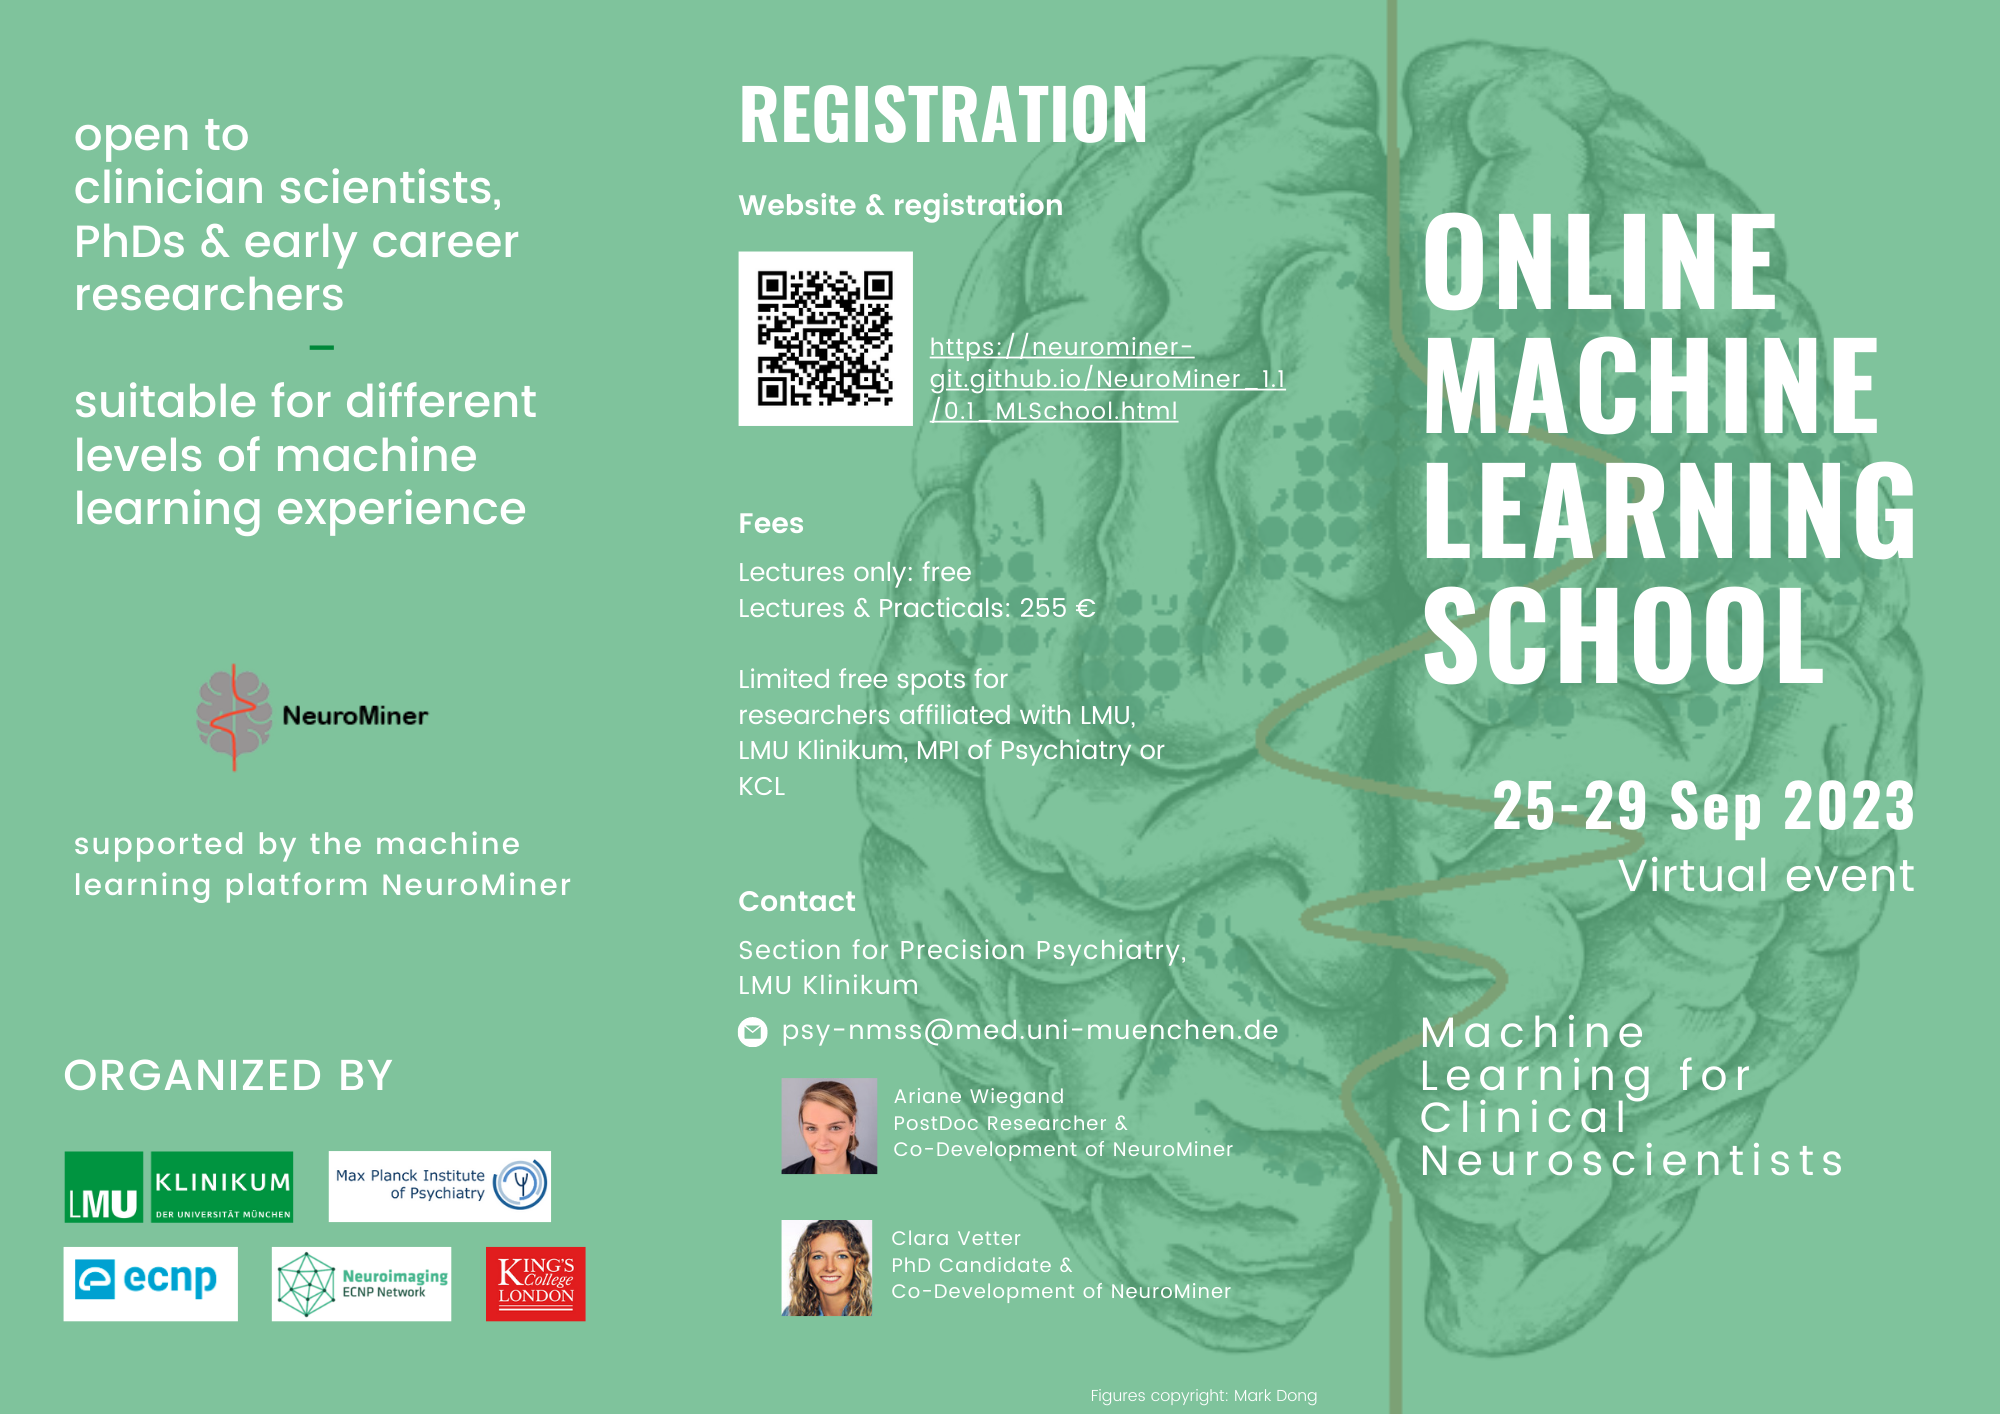
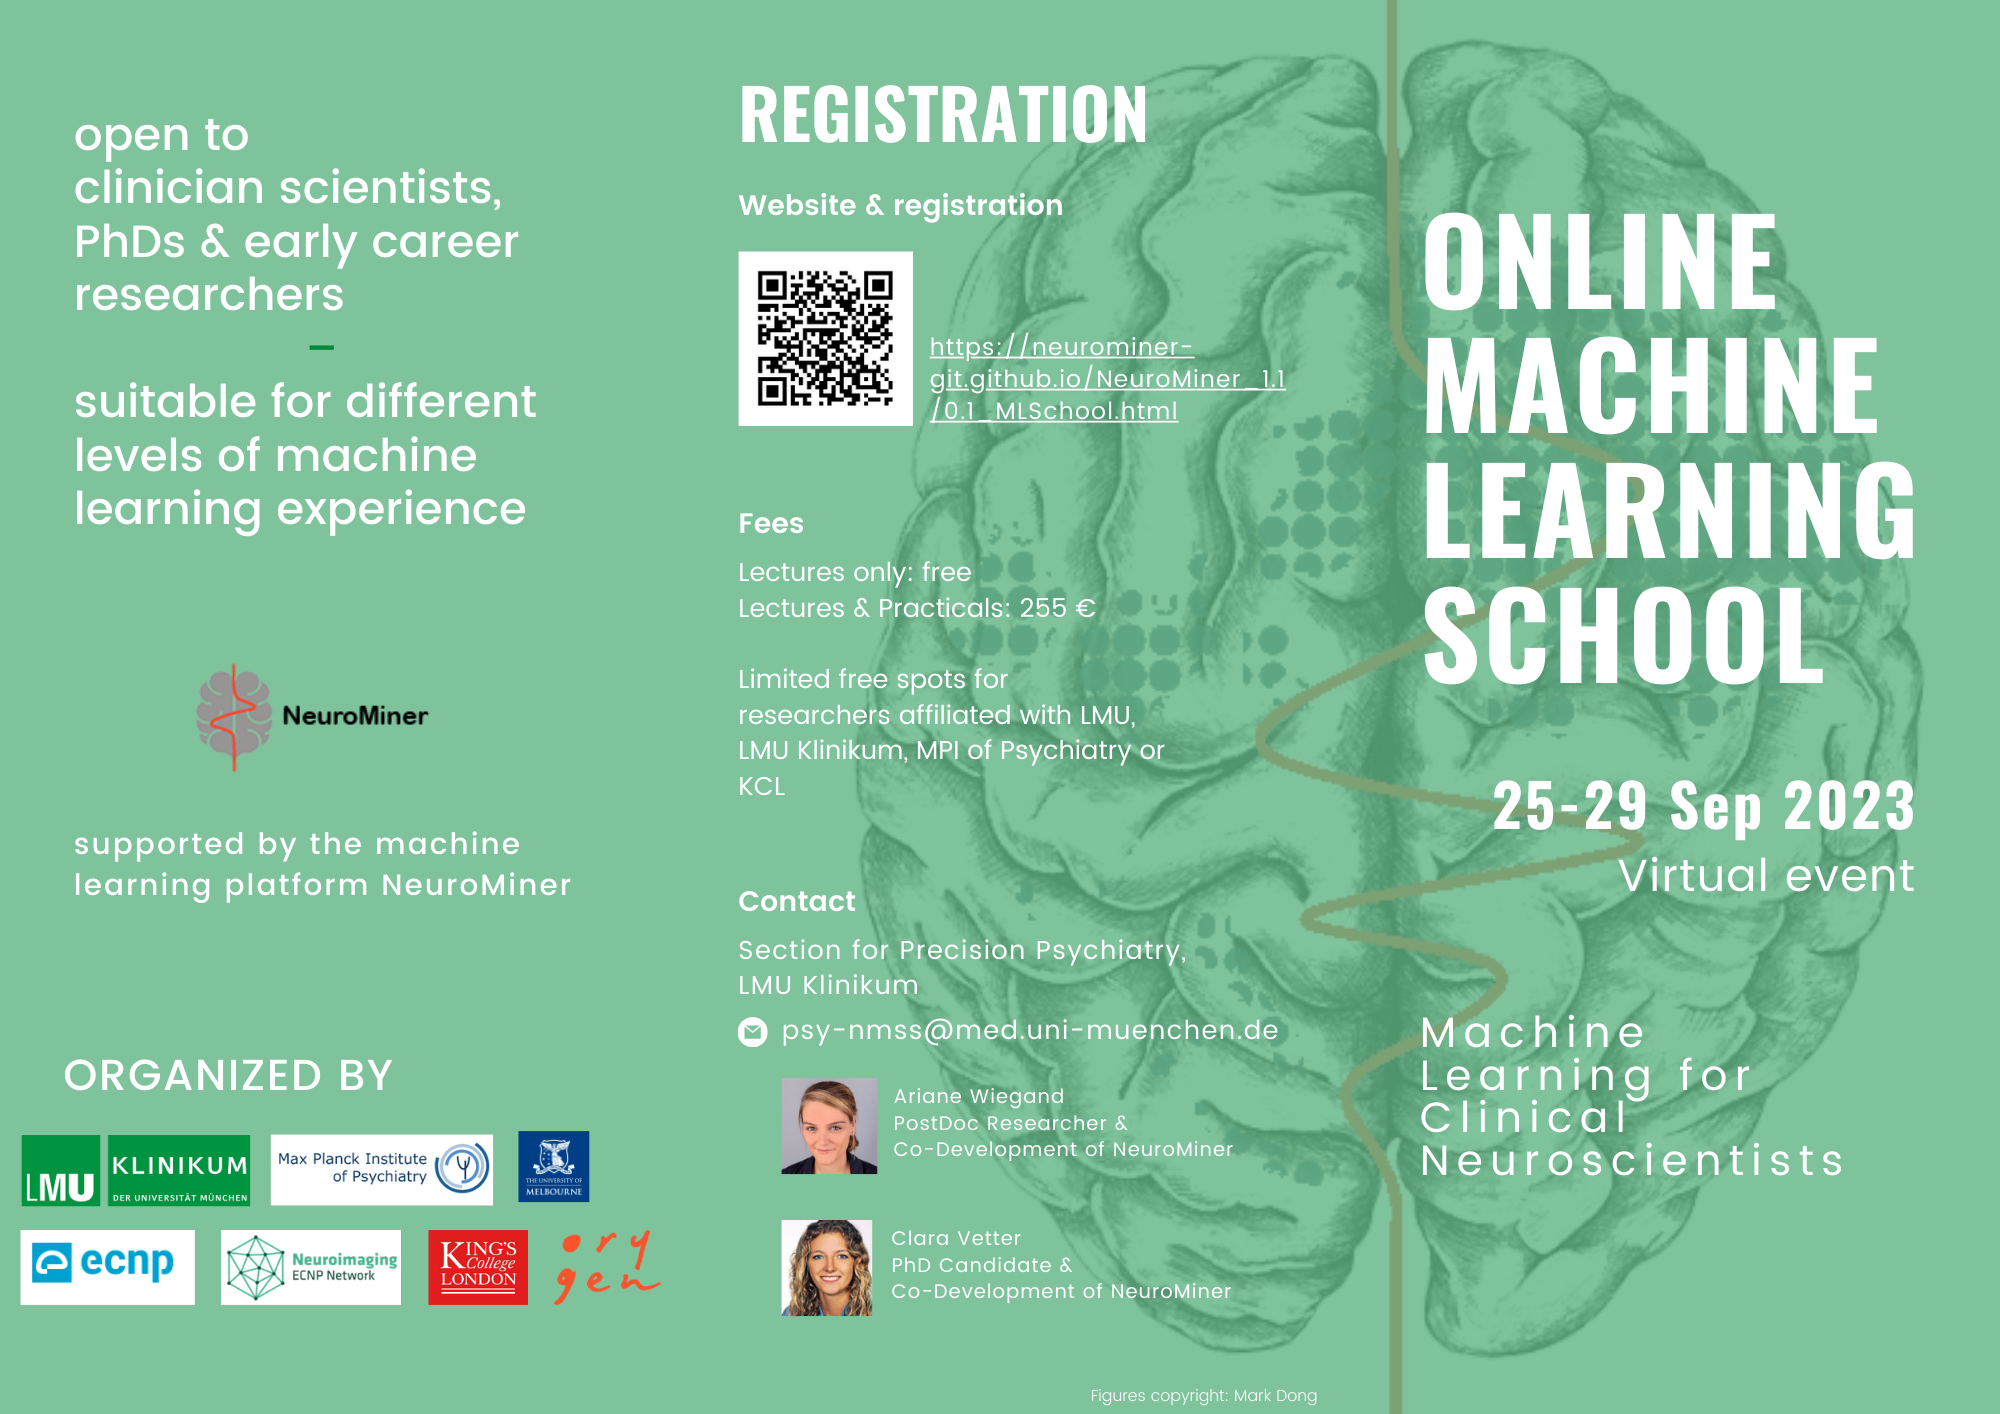
Update documentation

Changed region(s): [[0.0, 0.7779, 0.341, 0.9335]]

diff --git a/0.1_MLSchool.html b/0.1_MLSchool.html
@@ -477,10 +477,10 @@ document.write(`
 <div class="section" id="program">
 <h2>Program<a class="headerlink" href="#program" title="Permalink to this heading">#</a></h2>
 <div class="figure align-default" id="fig-flyer12023">
-<a class="reference external image-reference" href="https://github.com/neurominer-git/NeuroMiner_1.1/blob/main/docs/Images/SummerSchoolFlyer_20230803.pdf"><img alt="Flyer1" src="_images/flyer_p1_2023.png" /></a>
+<a class="reference external image-reference" href="https://github.com/neurominer-git/NeuroMiner_1.1/blob/main/docs/Images/SummerSchoolFlyer_20230811.pdf"><img alt="Flyer1" src="_images/flyer_p1_2023.png" /></a>
 </div>
 <div class="figure align-default" id="fig-flyer22023">
-<a class="reference external image-reference" href="https://github.com/neurominer-git/NeuroMiner_1.1/blob/main/docs/Images/SummerSchoolFlyer_20230803.pdf"><img alt="Flyer2" src="_images/flyer_p2_2023.png" /></a>
+<a class="reference external image-reference" href="https://github.com/neurominer-git/NeuroMiner_1.1/blob/main/docs/Images/SummerSchoolFlyer_20230811.pdf"><img alt="Flyer2" src="_images/flyer_p2_2023.png" /></a>
 </div>
 <div class="figure align-default" id="fig-program">
 <a class="reference external image-reference" href="https://github.com/neurominer-git/NeuroMiner_1.1/blob/main/docs/Images/Program_OnlineMLSchool_20230811.pdf"><img alt="program" src="_images/Program_OnlineMLSchool_20230811.png" /></a>
@@ -492,7 +492,7 @@ document.write(`
 <h2>Organized by<a class="headerlink" href="#organized-by" title="Permalink to this heading">#</a></h2>
 <p>The school is supported by the <a class="reference external" href="https://www.lmu-klinikum.de/psychiatrie-und-psychotherapie/forschung-research/working-groups/precision-psychiatry/7ef67d79b4ad4804">Section for Precision Psychiatry (LMU Klinikum)</a>, the <a class="reference external" href="https://www.psych.mpg.de/2571270/precision-psychiatry">Max Planck Fellow Group for Precision Psychiatry</a>, the <a class="reference external" href="https://www.ecnp.eu">ECNP</a>, and <a class="reference external" href="https://www.ecnp.eu/research-innovation/networks-thematic-working-groups/list-ecnp-networks/neuroimaging">ECNP Neuroimaging Network</a>, along with <a class="reference external" href="https://www.unimelb.edu.au/">University of Melbourne</a>, and <a class="reference external" href="https://www.orygen.org.au/">Orygen</a>.</p>
 <div class="figure align-default" id="fig-organizing-institutions">
-<img alt="organizing institutions" src="_images/organizing_institutions.png" />
+<img alt="organizing institutions" src="_images/organizing_institutions2023.png" />
 </div>
 <div class="section" id="contact">
 <h3>Contact<a class="headerlink" href="#contact" title="Permalink to this heading">#</a></h3>

diff --git a/0.1_MLSchool_AsiaPacific.html b/0.1_MLSchool_AsiaPacific.html
@@ -471,7 +471,7 @@ document.write(`
 <h2>Organized by<a class="headerlink" href="#organized-by" title="Permalink to this heading">#</a></h2>
 <p>The school is supported by the <a class="reference external" href="https://www.lmu-klinikum.de/psychiatrie-und-psychotherapie/forschung-research/working-groups/precision-psychiatry/7ef67d79b4ad4804">Section for Precision Psychiatry (LMU Klinikum)</a>, the <a class="reference external" href="https://www.psych.mpg.de/2571270/precision-psychiatry">Max Planck Fellow Group for Precision Psychiatry</a>, the <a class="reference external" href="https://www.ecnp.eu">ECNP</a>, and <a class="reference external" href="https://www.ecnp.eu/research-innovation/networks-thematic-working-groups/list-ecnp-networks/neuroimaging">ECNP Neuroimaging Network</a>, along with <a class="reference external" href="https://www.unimelb.edu.au/">University of Melbourne</a> and <a class="reference external" href="https://www.orygen.org.au/">Orygen</a>.</p>
 <div class="figure align-default" id="fig-organizing-institutions-asiapacific">
-<img alt="organizing institutions" src="_images/organizing_institutions_asiapacific.png" />
+<img alt="organizing institutions" src="_images/organizing_institutions_asiapacific2023.png" />
 </div>
 <div class="section" id="contact">
 <h3>Contact<a class="headerlink" href="#contact" title="Permalink to this heading">#</a></h3>

diff --git a/_sources/0.1_MLSchool.md b/_sources/0.1_MLSchool.md
@@ -60,7 +60,7 @@ If you are interested in our program but are unable to attend due to the time di
 ---
 name: fig:flyer12023
 alt: Flyer1
-target: https://github.com/neurominer-git/NeuroMiner_1.1/blob/main/docs/Images/SummerSchoolFlyer_20230803.pdf
+target: https://github.com/neurominer-git/NeuroMiner_1.1/blob/main/docs/Images/SummerSchoolFlyer_20230811.pdf
 ---
 ```
 
@@ -68,7 +68,7 @@ target: https://github.com/neurominer-git/NeuroMiner_1.1/blob/main/docs/Images/S
 ---
 name: fig:flyer22023
 alt: Flyer2
-target: https://github.com/neurominer-git/NeuroMiner_1.1/blob/main/docs/Images/SummerSchoolFlyer_20230803.pdf
+target: https://github.com/neurominer-git/NeuroMiner_1.1/blob/main/docs/Images/SummerSchoolFlyer_20230811.pdf
 ---
 ```
 
@@ -89,7 +89,7 @@ target: https://github.com/neurominer-git/NeuroMiner_1.1/blob/main/docs/Images/P
 The school is supported by the [Section for Precision Psychiatry (LMU Klinikum)](https://www.lmu-klinikum.de/psychiatrie-und-psychotherapie/forschung-research/working-groups/precision-psychiatry/7ef67d79b4ad4804), the [Max Planck Fellow Group for Precision Psychiatry](https://www.psych.mpg.de/2571270/precision-psychiatry), the [ECNP](https://www.ecnp.eu), and [ECNP Neuroimaging Network](https://www.ecnp.eu/research-innovation/networks-thematic-working-groups/list-ecnp-networks/neuroimaging), along with [University of Melbourne](https://www.unimelb.edu.au/), and [Orygen](https://www.orygen.org.au/).
 
 
-```{figure} Images/organizing_institutions.png
+```{figure} Images/organizing_institutions2023.png
 ---
 name: fig:organizing_institutions
 alt: organizing institutions

diff --git a/_sources/0.1_MLSchool_AsiaPacific.md b/_sources/0.1_MLSchool_AsiaPacific.md
@@ -65,7 +65,7 @@ target: https://github.com/neurominer-git/NeuroMiner_1.1/blob/main/docs/Images/S
 The school is supported by the [Section for Precision Psychiatry (LMU Klinikum)](https://www.lmu-klinikum.de/psychiatrie-und-psychotherapie/forschung-research/working-groups/precision-psychiatry/7ef67d79b4ad4804), the [Max Planck Fellow Group for Precision Psychiatry](https://www.psych.mpg.de/2571270/precision-psychiatry), the [ECNP](https://www.ecnp.eu), and [ECNP Neuroimaging Network](https://www.ecnp.eu/research-innovation/networks-thematic-working-groups/list-ecnp-networks/neuroimaging), along with [University of Melbourne](https://www.unimelb.edu.au/) and [Orygen](https://www.orygen.org.au/).
 
 
-```{figure} Images/organizing_institutions_asiapacific.png
+```{figure} Images/organizing_institutions_asiapacific2023.png
 ---
 name: fig:organizing_institutions_asiapacific
 alt: organizing institutions
